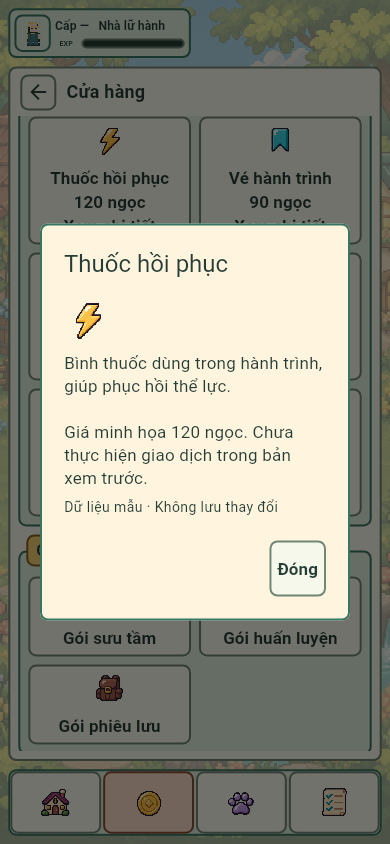
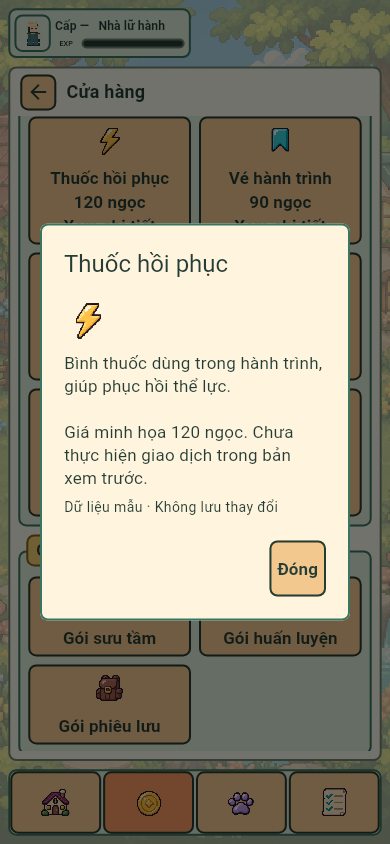
fix: improve shared button contrast
Give framed controls opaque, more saturated fills and dark outlines
so they stand out against soft panels and detailed backgrounds.
Keep active selections distinct with a stronger peach fill and
refresh the runtime references in docs/art/ui-guidelines.md.

Changed region(s): [[0.0, 0.6161, 0.9846, 1.0], [0.0308, 0.0616, 0.9538, 0.6161]]

diff --git a/test/app/presentation/menu_button_test.dart b/test/app/presentation/menu_button_test.dart
@@ -1,12 +1,54 @@
-import 'package:flutter/material.dart';
 import 'dart:ui' show Tristate;
+
+import 'package:flutter/material.dart';
 import 'package:flutter_test/flutter_test.dart';
 import 'package:pixel_rpg/app/presentation/menu_button.dart';
-import 'package:pixel_rpg/app/presentation/pixel/pixel_icon.dart';
 import 'package:pixel_rpg/app/presentation/pixel/pixel_frame.dart';
+import 'package:pixel_rpg/app/presentation/pixel/pixel_icon.dart';
 import 'package:pixel_rpg/app/theme/app_theme.dart';
 
 void main() {
+  testWidgets('enabled buttons stand out from their matching panels', (
+    tester,
+  ) async {
+    await tester.pumpWidget(
+      MaterialApp(
+        theme: appTheme,
+        home: Scaffold(
+          body: Column(
+            children: [
+              for (final skin in PixelFrameSkin.values)
+                MenuButton(
+                  label: skin.name,
+                  skin: skin,
+                  selected: skin == PixelFrameSkin.selected,
+                  onPressed: () {},
+                ),
+            ],
+          ),
+        ),
+      ),
+    );
+
+    final fills = <Color>{};
+    for (final skin in PixelFrameSkin.values) {
+      final button = tester.widget<TextButton>(
+        find.widgetWithText(TextButton, skin.name),
+      );
+      final style = button.style!;
+      final fill = style.backgroundColor!.resolve({})!;
+      final foreground = style.foregroundColor!.resolve({})!;
+      final edge = style.shape!.resolve({})!.side.color;
+      expect(fill.a, 1, reason: skin.name);
+      expect(fill, isNot(skin.background), reason: skin.name);
+      expect(_contrast(foreground, fill), greaterThanOrEqualTo(4.5));
+      expect(_contrast(edge, fill), greaterThanOrEqualTo(3));
+      expect(_contrast(edge, skin.background), greaterThanOrEqualTo(3));
+      fills.add(fill);
+    }
+    expect(fills, hasLength(PixelFrameSkin.values.length));
+  });
+
   testWidgets('tabs keep a 48 dp touch target around a compact frame', (
     tester,
   ) async {
@@ -95,7 +137,7 @@ void main() {
       final button = tester.widget<TextButton>(find.byType(TextButton));
       expect(
         button.style!.backgroundColor!.resolve({}),
-        PixelFrameSkin.selected.background,
+        PixelFrameSkin.selected.buttonBackground,
       );
       await tester.tap(find.byTooltip('Mở túi'));
       expect(taps, 1);
@@ -108,3 +150,6 @@ void main() {
     },
   );
 }
+
+double _contrast(Color dark, Color light) =>
+    (light.computeLuminance() + 0.05) / (dark.computeLuminance() + 0.05);

diff --git a/lib/app/presentation/menu_button.dart b/lib/app/presentation/menu_button.dart
@@ -1,12 +1,12 @@
 import 'package:flutter/material.dart';
 
-import '../theme/pixel_ui_colors.dart';
 import '../theme/game_surface_style.dart';
+import '../theme/pixel_ui_colors.dart';
 import 'artwork_projection.dart';
 import 'pixel/pixel_frame_skin.dart';
 import 'pixel/pixel_icon.dart';
 
-/// Shared soft control. Icon buttons keep their name in tooltips and semantics.
+/// Shared framed control. Icons keep their name in tooltips and semantics.
 class MenuButton extends StatelessWidget {
   const MenuButton({
     required this.label,
@@ -64,17 +64,15 @@ class MenuButton extends StatelessWidget {
             minimumSize: _isTab ? const Size(48, 40) : const Size(48, 56),
             tapTargetSize: _isTab ? MaterialTapTargetSize.padded : null,
             visualDensity: _isTab ? VisualDensity.standard : null,
-            foregroundColor: selected
-                ? PixelUiColors.coral
-                : PixelUiColors.outline,
+            foregroundColor: PixelUiColors.outline,
             disabledForegroundColor: PixelUiColors.mutedInk,
-            backgroundColor: frame.background,
+            backgroundColor: frame.buttonBackground,
             disabledBackgroundColor: frame.background,
             padding: _isTab
                 ? const EdgeInsets.symmetric(horizontal: 6, vertical: 4)
                 : EdgeInsets.all(visual == null ? 8 : 6),
             shape: GameSurfaceStyle.shape(
-              color: frame.border,
+              color: PixelUiColors.outline,
               projection: ArtworkProjection.of(context),
             ),
             textStyle: Theme.of(context).textTheme.labelLarge,

diff --git a/lib/app/theme/app_theme.dart b/lib/app/theme/app_theme.dart
@@ -1,8 +1,8 @@
 import 'package:flutter/material.dart';
 
-import 'pixel_ui_colors.dart';
-import 'game_typography.dart';
 import 'game_surface_style.dart';
+import 'game_typography.dart';
+import 'pixel_ui_colors.dart';
 
 final appTheme = ThemeData(
   useMaterial3: true,
@@ -28,8 +28,8 @@ final appTheme = ThemeData(
       minimumSize: const Size(48, 56),
       foregroundColor: PixelUiColors.outline,
       disabledForegroundColor: PixelUiColors.mutedInk,
-      backgroundColor: PixelUiColors.surface,
-      shape: GameSurfaceStyle.shape(),
+      backgroundColor: PixelUiColors.buttonSand,
+      shape: GameSurfaceStyle.shape(color: PixelUiColors.outline),
       textStyle: GameTypography.label,
     ),
   ),
@@ -37,8 +37,8 @@ final appTheme = ThemeData(
     style: IconButton.styleFrom(
       minimumSize: const Size(48, 48),
       foregroundColor: PixelUiColors.outline,
-      backgroundColor: PixelUiColors.surface,
-      shape: GameSurfaceStyle.shape(),
+      backgroundColor: PixelUiColors.buttonSand,
+      shape: GameSurfaceStyle.shape(color: PixelUiColors.outline),
     ),
   ),
   dialogTheme: DialogThemeData(

diff --git a/test/app/theme/app_theme_test.dart b/test/app/theme/app_theme_test.dart
@@ -5,6 +5,21 @@ import 'package:pixel_rpg/app/theme/app_theme.dart';
 import 'package:pixel_rpg/app/theme/pixel_ui_colors.dart';
 
 void main() {
+  test('framed Material buttons keep their foreground and edge legible', () {
+    for (final style in [
+      appTheme.textButtonTheme.style!,
+      appTheme.iconButtonTheme.style!,
+    ]) {
+      final fill = style.backgroundColor!.resolve({})!;
+      final foreground = style.foregroundColor!.resolve({})!;
+      final edge = style.shape!.resolve({})!.side.color;
+      expect(fill.a, 1);
+      expect(fill, isNot(PixelUiColors.surface));
+      expect(_contrast(foreground, fill), greaterThanOrEqualTo(4.5));
+      expect(_contrast(edge, fill), greaterThanOrEqualTo(3));
+    }
+  });
+
   test('shared light surfaces keep text and selection legible', () {
     final scheme = appTheme.colorScheme;
     expect(scheme.brightness, Brightness.light);

diff --git a/lib/app/presentation/pixel/pixel_frame_skin.dart b/lib/app/presentation/pixel/pixel_frame_skin.dart
@@ -22,6 +22,15 @@ enum PixelFrameSkin {
     cyan => PixelUiColors.sky,
   };
 
+  Color get buttonBackground => switch (this) {
+    cream => PixelUiColors.buttonSand,
+    cool => PixelUiColors.buttonMint,
+    gold => PixelUiColors.buttonGold,
+    cyan => PixelUiColors.buttonSky,
+    paper => PixelUiColors.buttonPaper,
+    selected => PixelUiColors.buttonPeach,
+  };
+
   Color get border => switch (this) {
     cool => PixelUiColors.teal,
     gold => PixelUiColors.amber,

diff --git a/lib/app/theme/pixel_ui_colors.dart b/lib/app/theme/pixel_ui_colors.dart
@@ -15,4 +15,11 @@ abstract final class PixelUiColors {
   static const amber = Color(0xFF86601E);
   static const peach = Color(0xFFF9DBC7);
   static const coral = Color(0xFF884D35);
+
+  static const buttonSand = Color(0xFFF2C88F);
+  static const buttonMint = Color(0xFF89D3A3);
+  static const buttonGold = Color(0xFFF8D24F);
+  static const buttonSky = Color(0xFF87CEF0);
+  static const buttonPaper = Color(0xFFF8DBA6);
+  static const buttonPeach = Color(0xFFF89A62);
 }

diff --git a/docs/art/ui-guidelines.md b/docs/art/ui-guidelines.md
@@ -24,10 +24,9 @@ Không nhân viền/góc theo cỡ icon. Chữ nội dung Home/menu vẫn dùng 
 
 Cảnh làng ban ngày dùng xanh lá, xanh trời, mái ngói đất nung và hoa nhiều màu.
 Khung dùng nền kem, bạc hà và xanh trời nhạt với chữ xanh đậm. Vàng mật ong
-dành cho tiêu đề và tiến độ, cam đào cùng viền nâu san hô dành cho mục đang chọn.
-Các nút hội thoại Home dùng vàng, xanh trời, bạc hà.
-Nút Trận chiến dùng nền cam đào.
-Dành các màu đậm cho viền, chữ và điểm nhấn nhỏ để nền rộng dịu mắt.
+dành cho tiêu đề và tiến độ. Nút có khung dùng nền đục, màu rõ hơn panel và
+viền xanh đậm. Nút thường dùng nền vàng cát. Các nút hội thoại Home dùng
+vàng, xanh trời, bạc hà. Nút Trận chiến và mục đang chọn dùng cam đào đậm.
 Giấy kem dành cho nội dung đọc. Chỉ dùng `PixelUiColors`, `GameSurfaceStyle`
 và theme chung; không tự chọn radius/BorderSide hoặc tạo viền trang trí riêng
 ở feature. Icon không thêm nền hay viền riêng bên trong nút.
@@ -45,10 +44,10 @@ hiển thị và gửi callback; feature giữ nội dung và state trình bày,
 | `pixel/PixelIcon` | Icon giữ ô vuông kể cả khi widget cha giãn. Chữ hiển thị bằng widget, nhãn điều khiển có semantics. |
 | `GameSpacing`, `GameChromeLayout` | Lưới artwork và vị trí neo thanh nhân vật, điều hướng dùng cho cả Home/menu. |
 | `PlayerHud` | Thanh nhân vật dùng chung gồm chân dung, tên, cấp và EXP. `ScaledArtwork` giữ tỷ lệ theo ô thiết kế 440 × 120. |
-| `PixelNavigation` | Bốn mục cùng vị trí neo đáy với Home; một khay `cool`, nút icon 36 dp bo 8 dp; mục đang chọn có nền cam đào, viền nâu san hô và semantics báo trạng thái chọn. |
+| `PixelNavigation` | Bốn mục cùng vị trí neo đáy với Home; một khay `cool`, nút icon 36 dp bo 8 dp; mục đang chọn có nền cam đào đậm và semantics báo trạng thái chọn. |
 | `MenuShell` | Khung giấy kem nằm giữa thanh nhân vật và thanh điều hướng. Hồ sơ dùng ảnh nền toàn màn hình, đặt hàng tiêu đề ở mép trên vùng an toàn. Chỉ nội dung dưới tiêu đề cuộn. |
 | `MenuPanel` | Thân `cool` xanh bạc hà với tab tiêu đề `gold` nổi như panel Home. `light: true` dùng thân giấy và chữ tối cho nội dung đọc. |
-| `MenuButton` | Viền 2 dp, góc bo 8 dp, mặc định nền ngà; icon atlas mặc định 36 dp; thẻ có thể truyền sprite trang trí và dùng `showLabel` để hiện tên, còn nút hành động compact giữ tooltip/semantics. Không có icon thì giữ nhãn chữ 17 dp. Mục chọn có nền cam đào, viền nâu san hô và semantics báo trạng thái chọn; mục khóa giữ icon khóa. |
+| `MenuButton` | Viền xanh đậm 2 dp, góc bo 8 dp, mặc định nền vàng cát; icon atlas mặc định 36 dp; thẻ có thể truyền sprite trang trí và dùng `showLabel` để hiện tên, còn nút hành động compact giữ tooltip/semantics. Không có icon thì giữ nhãn chữ 17 dp. Mục chọn có nền cam đào đậm và semantics báo trạng thái chọn; mục khóa giữ icon khóa. |
 | `MenuGrid` | Chia ô đều và căn cùng chiều cao từng hàng; bớt cột khi chữ lớn. Hàng cuối giữ cùng bề rộng ô. |
 | `PixelProgress` | Thanh EXP cùng mẫu viền 2 dp/góc 8 dp, nền xanh đậm và phần đã đạt mặc định màu vàng mật ong. Thanh HP dùng màu theo hai phía của trận chiến. |
 
@@ -118,7 +117,7 @@ hệ số chữ. Widget test đo cỡ chữ sau transform.
 Widget test nạp đúng font GameRoboto đóng gói để kiểm tra wrap theo runtime.
 
 Navigation theo thứ tự Trang chủ, Cửa hàng, Hồ sơ và Cài đặt.
-Mục đang chọn có nền cam đào, viền nâu san hô và semantics báo trạng thái chọn.
+Mục đang chọn có nền cam đào đậm và semantics báo trạng thái chọn.
 Nút quay lại menu về Home, Yêu thú về Hồ sơ và Trận chiến về màn đã
 mở bản xem thử. Vùng neo navigation cao ít nhất 60 dp; nút hoạt động có vùng chạm ít nhất 48 × 48 dp ở màn hình
 từ 320 dp, độc lập tỷ lệ sprite. Trạng thái khóa có icon khóa.

diff --git a/README.md b/README.md
@@ -105,7 +105,8 @@ Android application ID: `com.jinshu.pixel_rpg`.
   `ArtworkProjection` bù scale artwork để giữ cùng độ dày/độ cong trên màn hình.
   Sáu skin chỉ đổi màu; atlas khung cũ giữ làm tư liệu, không đóng gói runtime. Chữ là widget riêng; 18 icon dùng atlas pixel art
   nền trong suốt. Khung dùng nền ngà, kem, bạc hà và xanh trời nhạt với chữ xanh đậm.
-  Mục điều hướng đang chọn có nền cam đào, viền nâu san hô và semantics báo trạng thái chọn.
+  Nút có khung dùng nền đục, màu rõ hơn panel và viền xanh đậm.
+  Mục điều hướng đang chọn có nền cam đào đậm và semantics báo trạng thái chọn.
   Thanh dưới có Trang chủ, Cửa hàng, Hồ sơ và Cài đặt.
   Hộp thư chỉ hiện biểu tượng phong bì, với vùng chạm 48 × 48 dp.
   Nói chuyện, Quan sát và Tìm kiếm cập nhật nội dung ô hội thoại.
